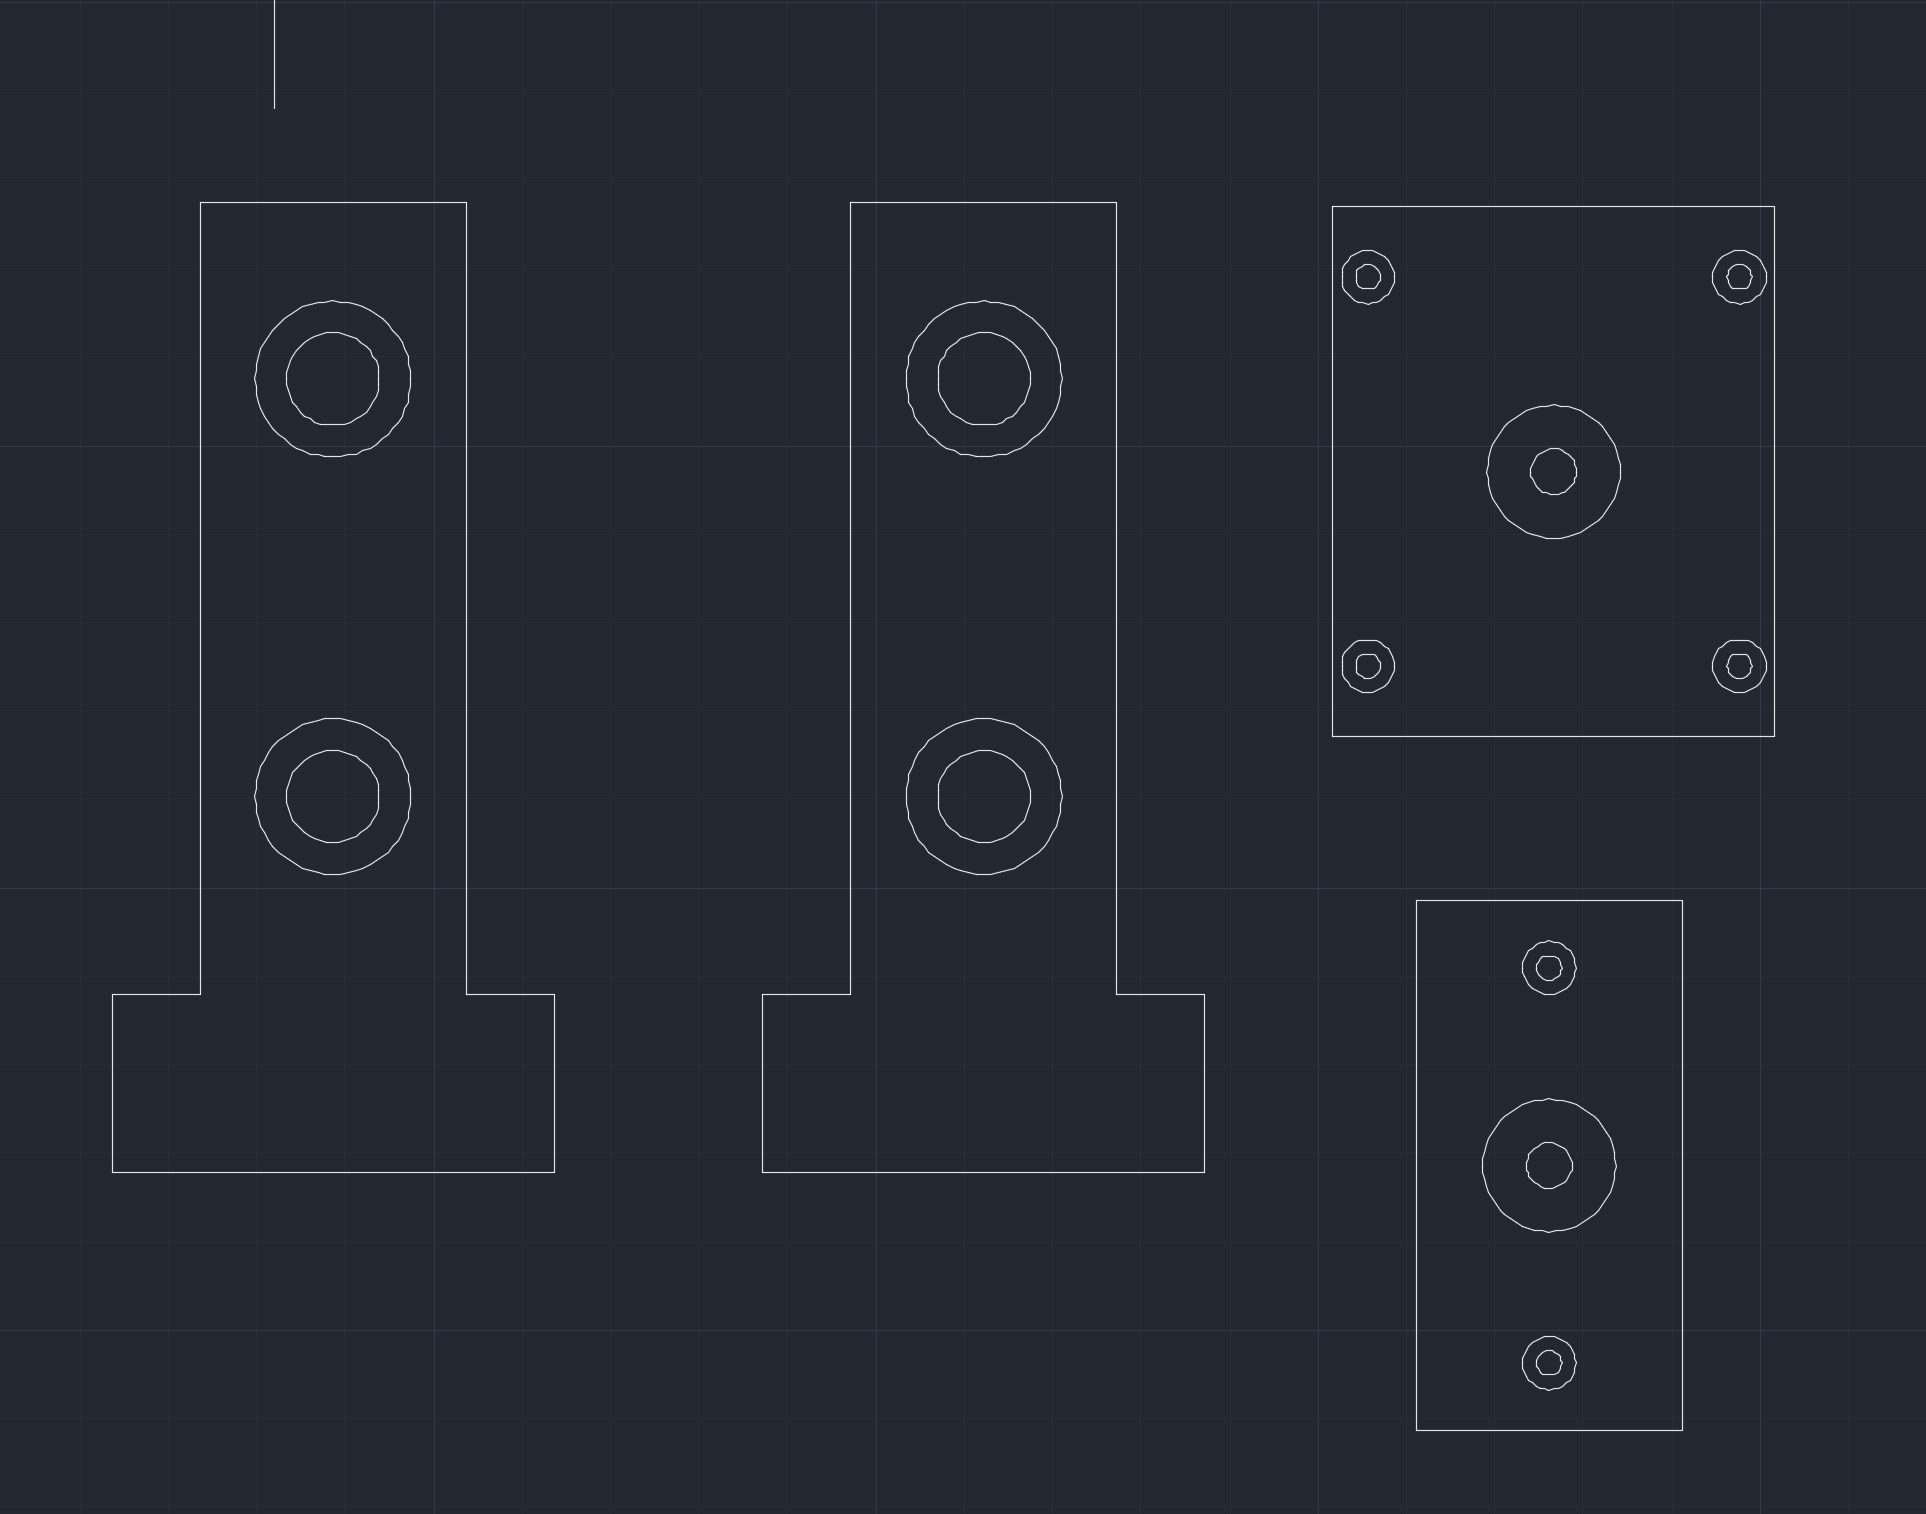
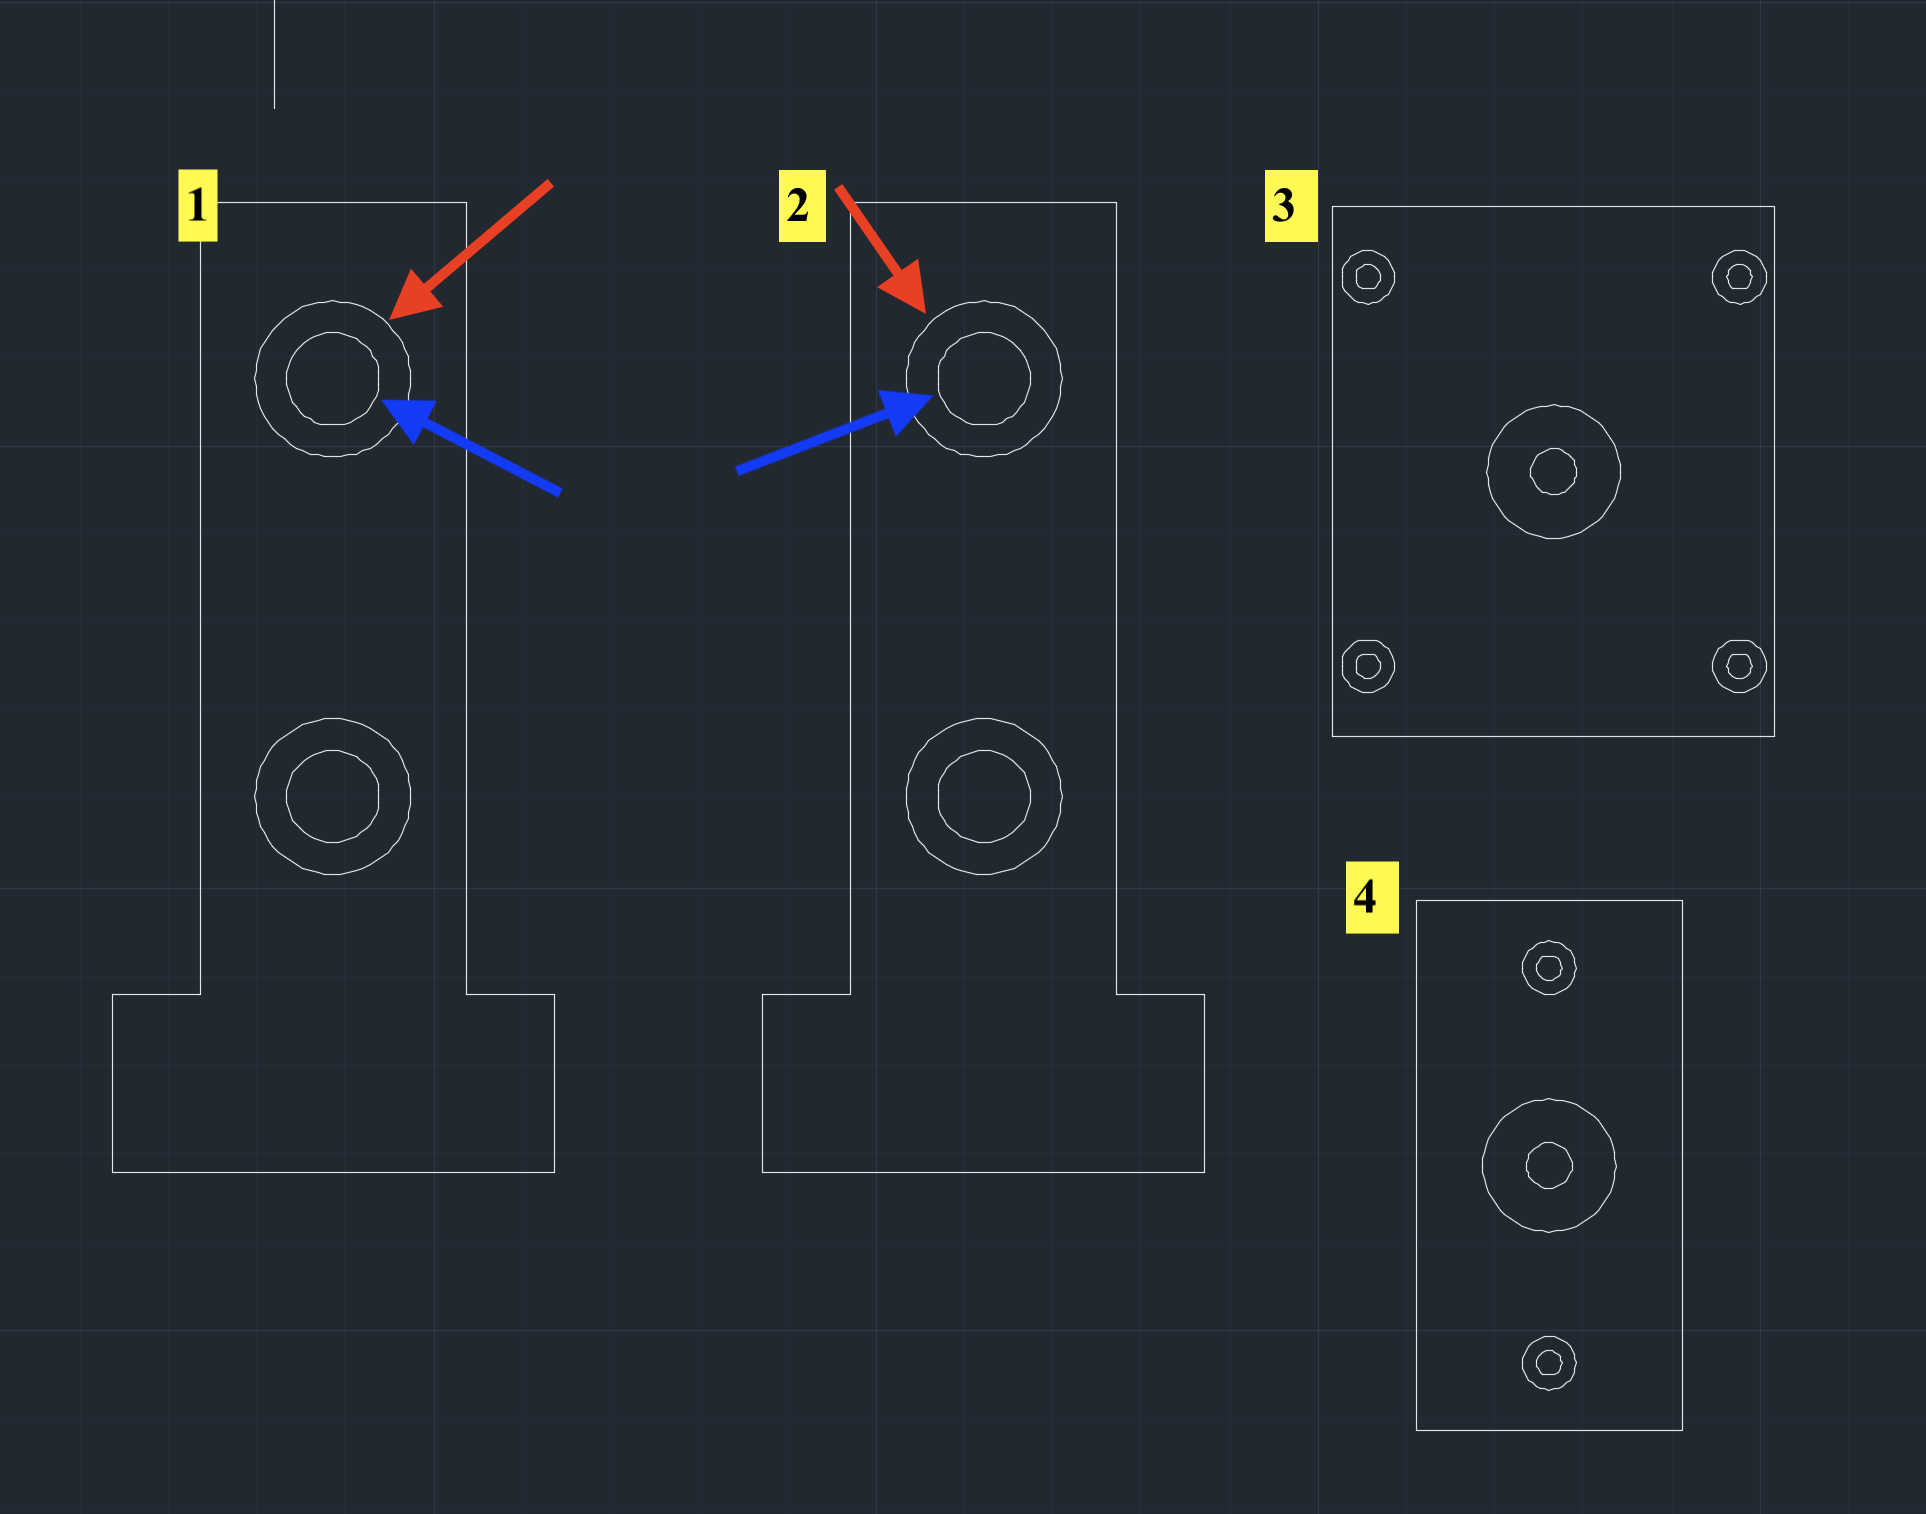
edits

diff --git a/readme.md b/readme.md
@@ -1,8 +1,12 @@
 # Mechanical Clock Escapement
 
-The following are step by step directions to cutting and building a working mechanical clock escapement.
+The following are step by step directions to cutting and building a working, gravity-driven mechanical clock escapement.
 
 ![Clock Escapement](https://github.com/tbensky/ProjectClock/blob/main/Pics/escape.gif)
+
+The escapement can be constructed using the parts shown here.
+
+![Parts](https://github.com/tbensky/ProjectClock/blob/main/Pics/allparts.jpg)
 
 
 # Frame, escape wheel, and anchor
@@ -12,6 +16,9 @@ CAD (.DWG file) is in the CAD folder, and looks like this
 
 ![CAD file](https://github.com/tbensky/ProjectClock/blob/main/Pics/cad_parts.png)
 
-Pockets cuts to 0.2730" (7mm) depth.
+Parts 1 and 2 are the sides of the escapement frame. Part 3 is the base of the frame, and Part 2 is the top of the frame.  The circles pointed to by the red arrows are to be CNCed as "pockets cuts" to 0.2730" (7mm) depth. The
+circles with the blue arrows are to be cut through.  The smaller (outer) circles on Parts 3 and 4 are countersinks for #6 screw heads and are cut 0.1" deep. The inner circles on Parts 3 and 4 are to be cut through.
+
+We get good results using two tools.  All pockets are first cut with a 1/8" end mill. 
 
 Coutersinks for screws to 0.1".
